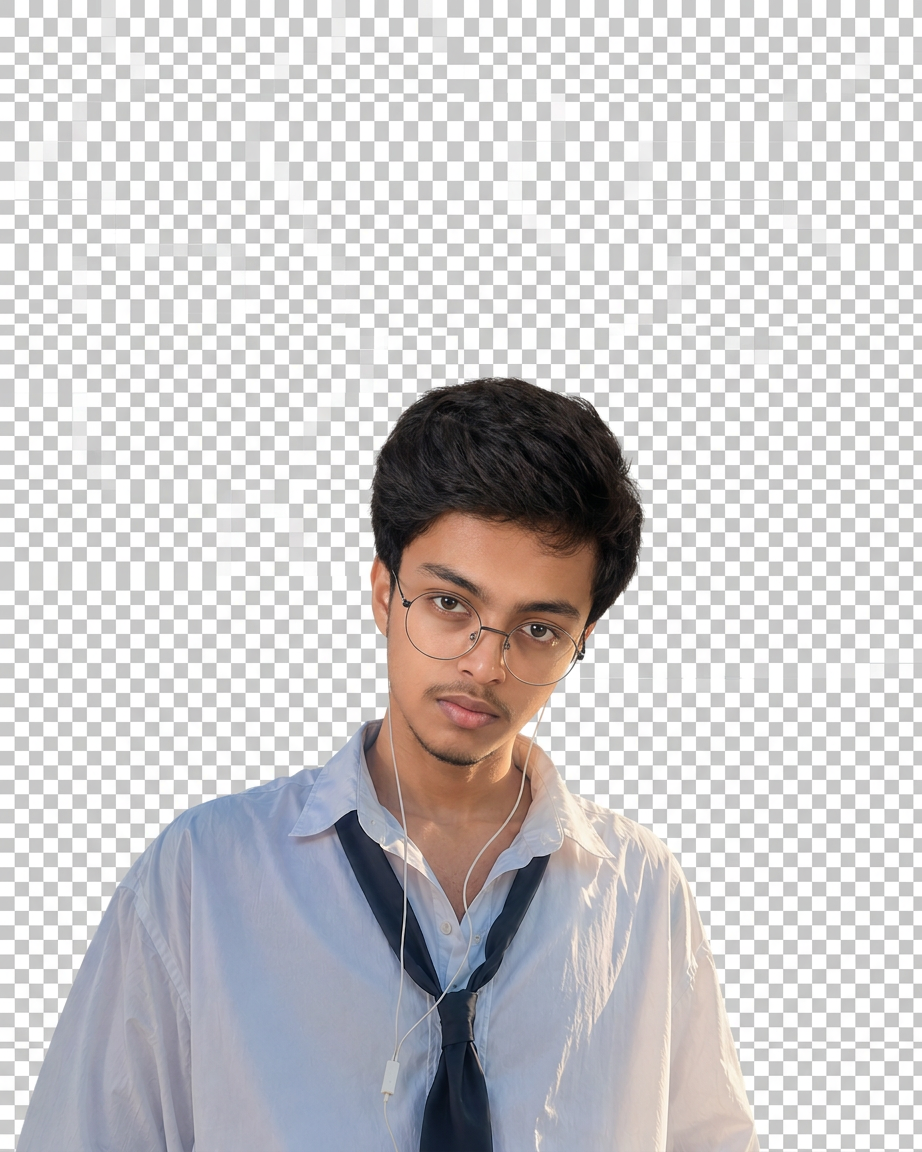
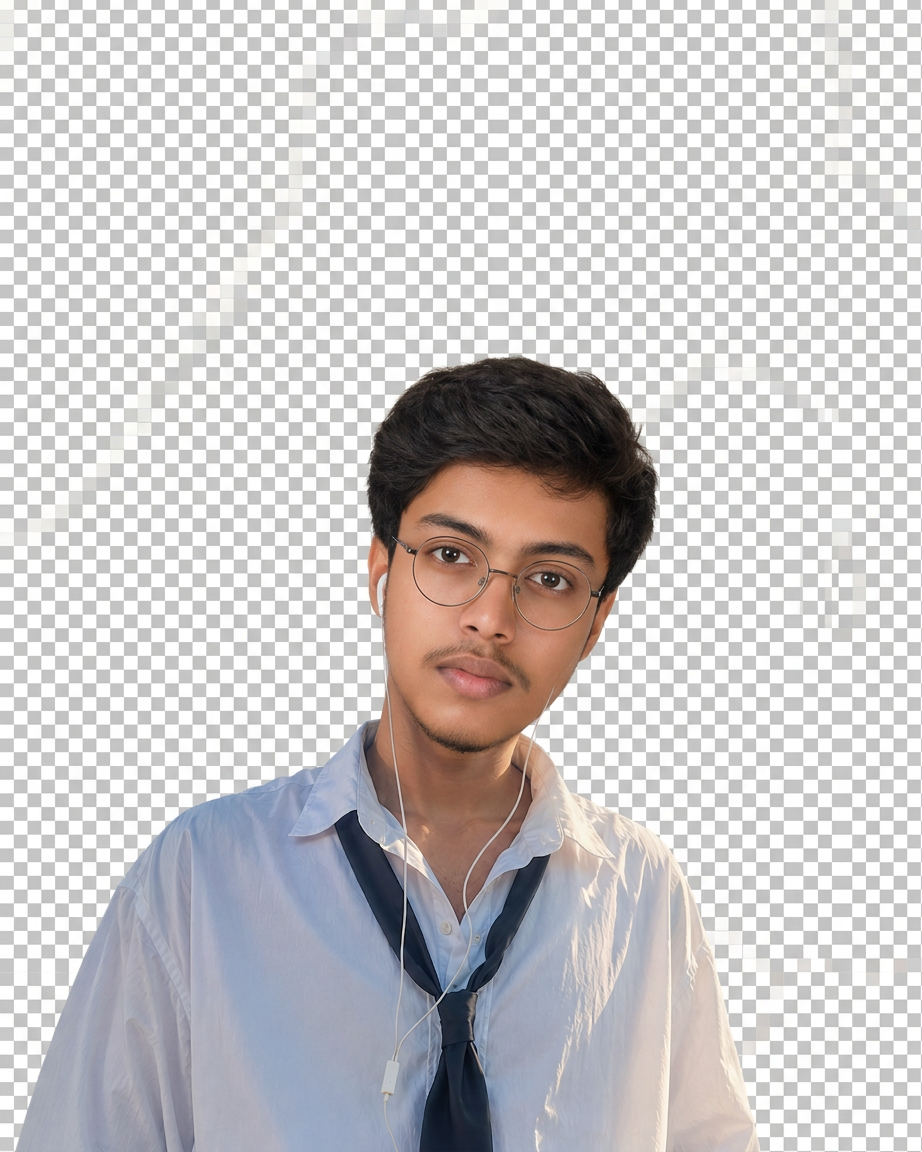
Ultimate 1000/1000 - tall hero PNG 800x993 reference clone, about PNG, 2+ Years of Experience exact clone, no phone, no batch year, counters 3+ 52+ 12+, resume ATS clean, zero 404, zero console

diff --git a/index.html b/index.html
@@ -378,7 +378,7 @@
               <div class="row">
                 <div class="col-xl-6">
                   <div class="about-three-thumb w-100 tw-clip-anim tw-rounded-lg" data-aos="fade-up" data-aos-duration="1000" data-aos-delay="200">
-                    <img loading="lazy" class="tw-anim-img w-100 tw-rounded-lg" data-animate="true" src="assets/images/thumbs/about-three-thumb.jpg" alt="Portrait of Manashjyoti Bora" />
+                    <img loading="lazy" class="tw-anim-img w-100 tw-rounded-lg" data-animate="true" src="assets/images/thumbs/about-three-thumb.png" alt="Portrait of Manashjyoti Bora" />
                   </div>
                 </div>
                 <div class="col-xl-6">
